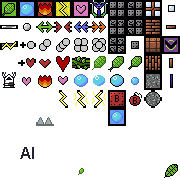
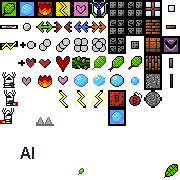
Update ship sprite on move left/right or stopped
Very rough need to clean this up / contain it to a player or ship object...

Changed region(s): [[0.0, 0.5, 0.1111, 0.6944]]

diff --git a/src/DemoScene.ts b/src/DemoScene.ts
@@ -19,9 +19,11 @@ export default class DemoScene extends Phaser.Scene {
   playerStatus: {
     isStunned: boolean;
     lastStunned: number | null;
+    lastPos: Phaser.Math.Vector2 | null;
   } = {
     isStunned: false,
     lastStunned: null,
+    lastPos: null,
   };
 
   ai: {
@@ -38,6 +40,7 @@ export default class DemoScene extends Phaser.Scene {
   clickListener!: (event: MouseEvent) => void;
 
   player!: Phaser.Physics.Arcade.Sprite;
+  ship!: Phaser.GameObjects.Sprite;
   newBall!: Phaser.Physics.Arcade.Sprite | null;
 
   ballGroup!: Phaser.Physics.Arcade.Group;
@@ -126,6 +129,7 @@ export default class DemoScene extends Phaser.Scene {
     this.playerStatus = {
       isStunned: false,
       lastStunned: null,
+      lastPos: null,
     };
 
     // add heart sprites for every life...
@@ -549,11 +553,13 @@ export default class DemoScene extends Phaser.Scene {
           this.x = this.platform.x;
         }
       }
-      new Ship(this, myPlayer.x, myPlayer.y, sprite);
+      this.ship = new Ship(this, myPlayer.x, myPlayer.y, sprite);
 
       playerGroup.add(sprite);
 
       this.player = sprite;
+
+      this.playerStatus.lastPos = new Phaser.Math.Vector2(sprite.x, sprite.y);
 
       sprite.setDepth(10);
 
@@ -808,5 +814,29 @@ export default class DemoScene extends Phaser.Scene {
       document.removeEventListener("mousedown", this.clickListener);
       this.scene.restart();
     }
+
+    // Rough way to change sprite based on direction of player movement
+    // NOT using velocity, since player moves without using it
+
+    const currentPosition = new Phaser.Math.Vector2(
+      this.player.x,
+      this.player.y
+    );
+
+    const distance = Phaser.Math.Distance.BetweenPoints(
+      currentPosition,
+      this.playerStatus.lastPos!
+    );
+
+    if (distance > 0) {
+      if (currentPosition.x > this.playerStatus.lastPos!.x) {
+        this.ship.setFrame(60);
+      } else if (currentPosition.x < this.playerStatus.lastPos!.x) {
+        this.ship.setFrame(50);
+      }
+    } else {
+      this.ship.setFrame(40);
+    }
+    this.playerStatus.lastPos!.copy(currentPosition);
   }
 }
